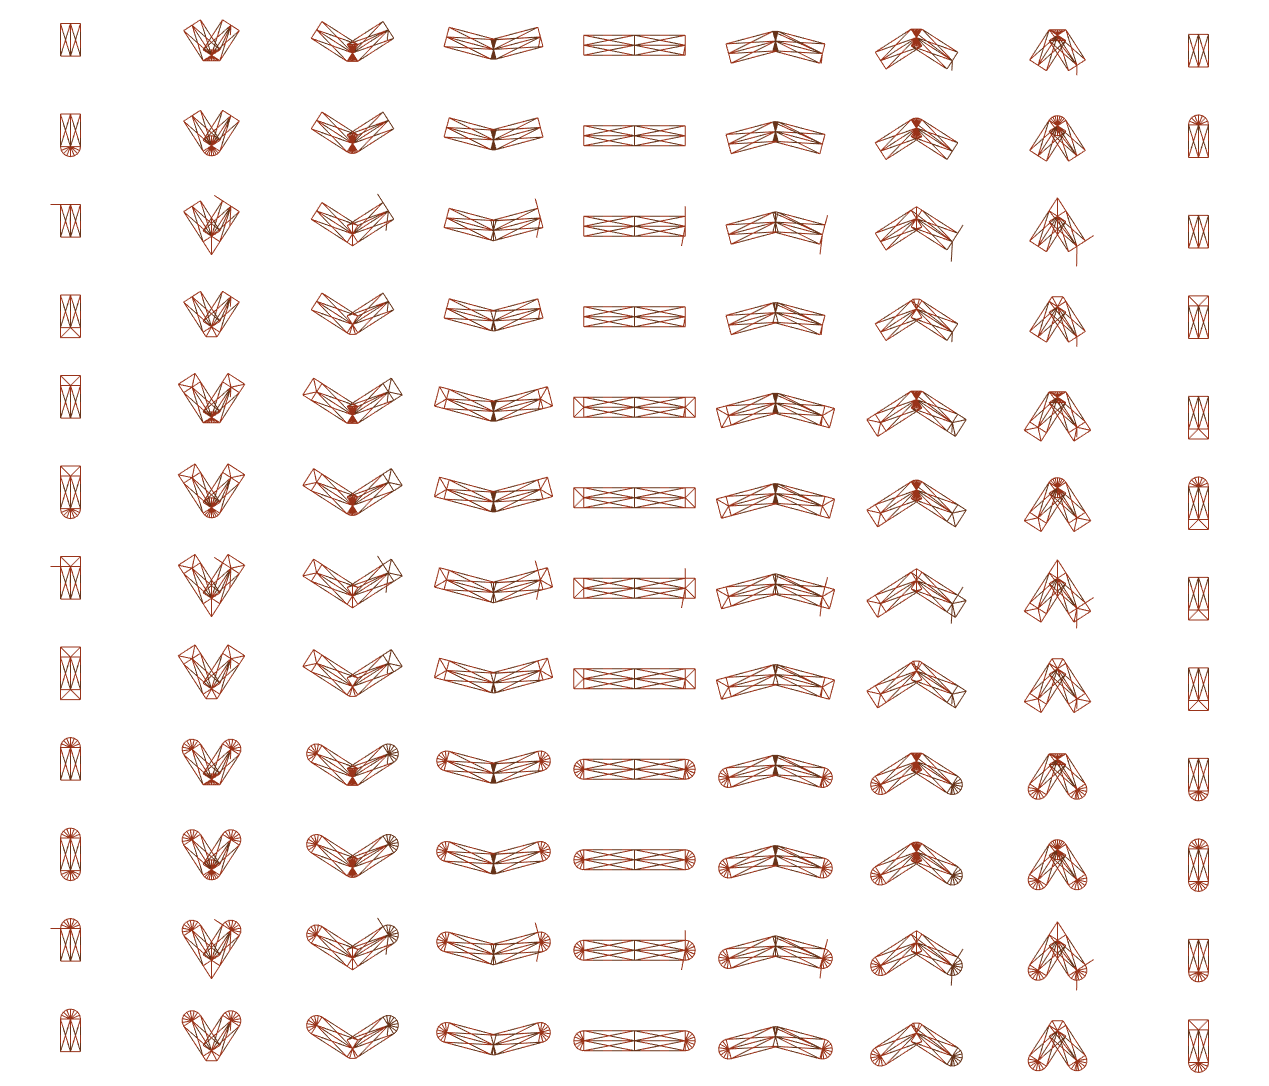
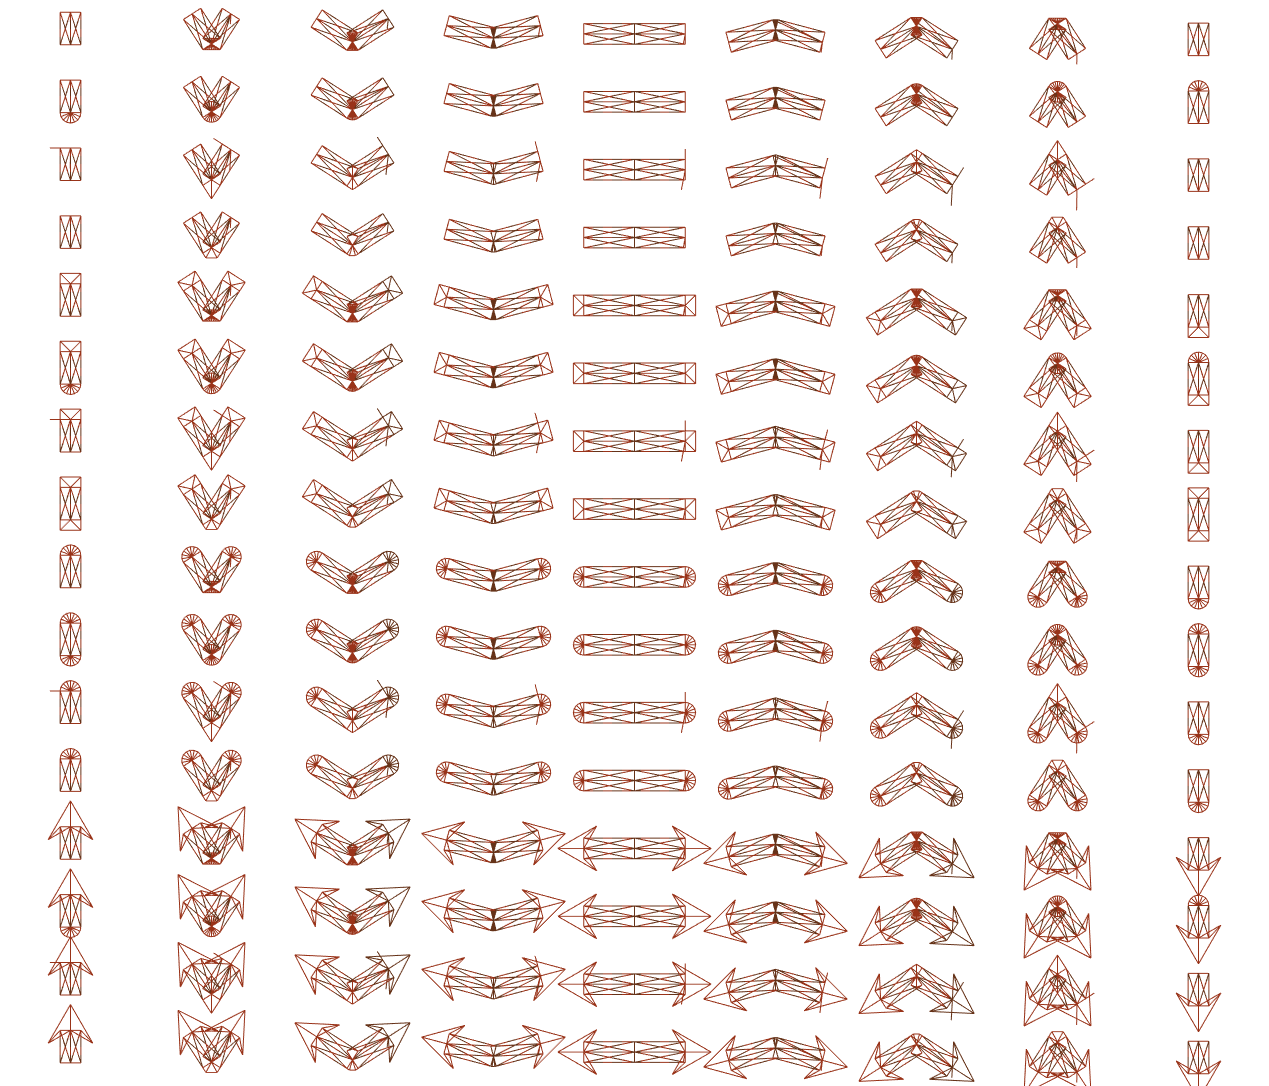
Add arrow caps

diff --git a/src/caps.ts b/src/caps.ts
@@ -20,4 +20,21 @@ export const CapType = {
       return slerp(norm, dir, percent * 2.0, -1.0);
     }
   `,
+  arrow: (size = 2.5, angle = 60) => glsl`
+    ${PI}
+    vec2 cap(vec2 dir, vec2 norm, float percent) {
+      float size = ${size.toFixed(4)};
+      float angle = radians(${angle.toFixed(4)});
+      mat2 prot = rotMat(angle, 1.0);
+      mat2 nrot = rotMat(-angle, 1.0);
+      vec2 shoulder1 = -nrot * dir * size;
+      vec2 shoulder2 = -prot * dir * size;
+      vec2 mid = dir * size;
+      if (percent == 0.0) return norm;
+      if (percent == 1.0) return -norm;
+      if (percent == 0.5) return mid;
+      if (percent < 0.5) return shoulder1;
+      if (percent > 0.5) return shoulder2;
+    }
+  `
 };

diff --git a/demo/tests/combinations.ts b/demo/tests/combinations.ts
@@ -13,7 +13,7 @@ function maybeString(s: string | (() => string)): string {
 
 const capjoin = Object.keys(CapType).flatMap(
   ct => Object.keys(JoinType).map(jt => ({
-    cap: CapType[ct as keyof typeof CapType],
+    cap: maybeString(CapType[ct as keyof typeof CapType]),
     join: maybeString(JoinType[jt as keyof typeof JoinType])
   })));
 

diff --git a/src/joins.ts b/src/joins.ts
@@ -18,7 +18,7 @@ export const JoinType = {
       float limit = ${limit.toFixed(4)};
       vec2 mp = miterPoint(a, b);
       float mplen2 = dot(mp, mp);
-      if (mplen2 < 0.0001 || mplen2 > limit*limit) {
+      if (mplen2 < 1e-5 || mplen2 > limit*limit) {
         return mix(a, b, percent);
       } else {
         return mp;

diff --git a/README.md b/README.md
@@ -8,7 +8,7 @@ Loosely based on Rye Terrell's [Instanced Line Rendering](https://wwwtyro.net/20
 Features:
 - batch rendering of lines
 - vertex shader expanded
-- separate caps (`butt`, `square`, `round`) and
+- separate caps (`butt`, `square`, `round`, `arrow(size, angle)`) and
 - joins (`bevel`, `miter(limit)`, `miterSquare`, `round`)
 - GLSL injectable to tailor to your needs (e.g. do you have a non-linear camera?)
 
@@ -90,6 +90,8 @@ Very much WIP
 
 
 ## Combination Test
+![Combination Test Filled](static/combination_test_fill.png)
+
 ![Combination Test](static/combination_test.png)
 
 NOTE: "extra" lines are simply an artifact of rendering with `'line strip'`. In reality each segment is represented as 4 triangles + 2 join accordions, one on each side. Even though each segment renders an accordion on both sides, only one is visible per join because the other one gets back-face culled.
